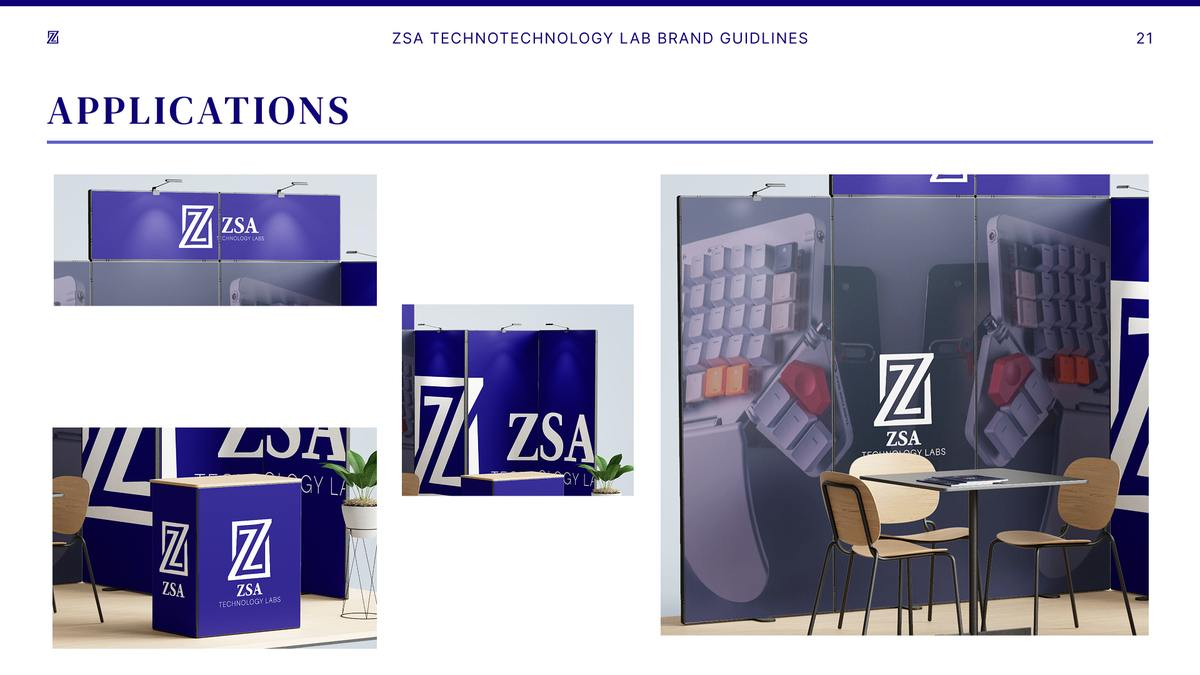
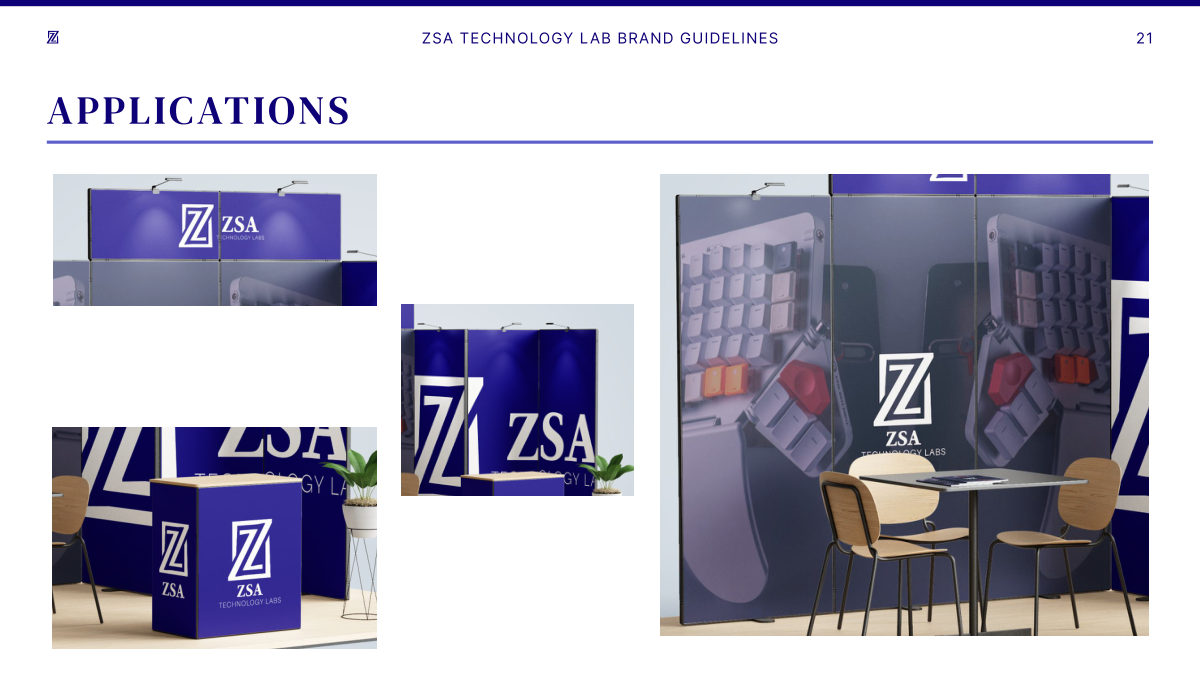
ZSA Moonlander: rationale, more guideline pages, applications, campaign pieces and sketches
Brand Direction adds the Logo Rationale page and the wordmark line from the RGD entry. Identity
System shows six guideline pages; Applications shows the booth and merchandise from the guidelines'
own images. Campaign shows the pieces from P2.3 (Built for Focus, two posters and a mockup, a social
post, the underside shot) in place of the Q1 four-up, plus the shooting settings. New Sketches
section from ART1113 assignments 2 and 4. zs-booth.jpg is redrawn from the PDF: the old export's
header read TECHNOTECHNOLOGY LAB BRAND GUIDLINES. zs-camp and zs-booth are no longer placed.

Claude-Session: https://claude.ai/code/session_01SoBVAK3i5HXZziztGmzpAC

diff --git a/work/zsa-moonlander.html b/work/zsa-moonlander.html
@@ -29,7 +29,7 @@
 
   <main id="main">
     <figure class="p-hero" data-hero style="--pos:50% 30%">
-      <img src="../img/zs-mag.jpg" alt="Open magazine with a ZSA Moonlander keyboard spread" width="922" height="683" fetchpriority="high" decoding="async">
+      <img src="../img/zs-mag.jpg" alt="Open magazine with a ZSA Moonlander keyboard spread" width="2880" height="2133" fetchpriority="high" decoding="async">
     </figure>
 
     <header class="p-head">
@@ -44,17 +44,19 @@
     </div>
 
     <div class="p-art p-sec">
-      <img src="../img/zs-bill.jpg" alt="ZSA Moonlander billboard in a subway station" width="927" height="690" loading="lazy" decoding="async">
+      <img src="../img/zs-bill.jpg" alt="ZSA Moonlander billboard in a subway station" width="2160" height="1608" loading="lazy" decoding="async">
     </div>
 
     <section class="p-sec" aria-labelledby="d1">
       <div class="p-art">
         <img src="../img/zs-dir.jpg" alt="The previous ZSA logo beside the new Z lettermark on navy" width="973" height="506" loading="lazy" decoding="async">
+        <img src="../img/zs-rationale.jpg" alt="Logo Rationale page: the Z mark and wordmark beside the founding story and notes on the logomark and the wordmark" width="2160" height="1215" loading="lazy" decoding="async">
       </div>
       <div class="p-cap">
         <h2 id="d1">Brand Direction</h2>
         <p>The brand direction focuses on clarity and modularity, reflecting the engineering mindset of programmable keyboard users.</p>
         <p>A simplified logomark replaces the previous skeuomorphic logo. Its double outline follows the two-layer keycaps and the split layout of the boards, and it stays clear at small sizes.</p>
+        <p>The wordmark is set in a serif, Corundum Text Bold, which reads as something built to last rather than a tech startup.</p>
       </div>
     </section>
 
@@ -66,27 +68,74 @@
         </div>
         <div class="row">
           <img src="../img/zs-type.jpg" alt="Guidelines page with DM Serif Display and Inter" width="1200" height="675" style="--ar:1.7778" loading="lazy" decoding="async">
-          <img src="../img/zs-booth.jpg" alt="Guidelines page with trade-show booth applications" width="1200" height="675" style="--ar:1.7778" loading="lazy" decoding="async">
+          <img src="../img/zs-backgrounds.jpg" alt="Guidelines page with the horizontal logo on white, navy, black and purple backgrounds" width="1200" height="675" style="--ar:1.7778" loading="lazy" decoding="async">
+        </div>
+        <div class="row">
+          <img src="../img/zs-social.jpg" alt="Guidelines page with the square and circle avatars and a navy banner" width="1200" height="675" style="--ar:1.7778" loading="lazy" decoding="async">
+          <img src="../img/zs-donts.jpg" alt="Guidelines page with six crossed-out misuses of the logo" width="1200" height="675" style="--ar:1.7778" loading="lazy" decoding="async">
         </div>
       </div>
       <div class="p-cap">
         <h2 id="d2">Identity System</h2>
-        <p>The guidelines set out lockups, a deep navy palette, DM Serif Display with Inter, and applications from print to a trade-show booth.</p>
+        <p>The guidelines set out the lockups and their minimum sizes, the logo on different backgrounds and as a social media avatar, and the misuses to avoid. Deep navy is the base colour, with mid purple as a small accent that never competes with it. DM Serif Display and Inter carry communication and stay separate from the logo type.</p>
       </div>
     </section>
 
     <section class="p-sec" aria-labelledby="d3">
       <div class="p-art">
-        <img src="../img/zs-camp.jpg" alt="Four campaign visuals: a subway billboard, a keycap close-up, a magazine spread and a product close-up" width="1200" height="862" loading="lazy" decoding="async">
+        <img src="../img/zs-app-booth.jpg" alt="Trade-show booth in navy and purple, with the Z mark on the walls and the counter" width="2160" height="1620" loading="lazy" decoding="async">
+        <div class="row">
+          <img src="../img/zs-app-hub.jpg" alt="Purple USB-C adapter with the Z mark, plugged into a laptop" width="1200" height="795" style="--ar:1.5094" loading="lazy" decoding="async">
+          <img src="../img/zs-app-usb.jpg" alt="USB stick with a purple body and the ZSA lockup on the metal swivel" width="640" height="999" style="--ar:0.6406" loading="lazy" decoding="async">
+          <img src="../img/zs-app-badges.jpg" alt="A pile of navy badges with the Z mark and wordmark" width="1100" height="825" style="--ar:1.3333" loading="lazy" decoding="async">
+        </div>
       </div>
       <div class="p-cap">
-        <h2 id="d3">Campaign</h2>
-        <p>Through bold compositions and close-up product visuals, the design emphasizes precision, customization, and the tactile experience of mechanical keyboards.</p>
-        <p>The visual system extends across multiple campaign touchpoints including billboards, editorials, and social media graphics, maintaining a consistent visual language built around precision and modular structure.</p>
+        <h2 id="d3">Applications</h2>
+        <p>The identity on a trade-show booth and on merchandise: a USB-C adapter, a USB stick and badges.</p>
       </div>
     </section>
 
     <section class="p-sec" aria-labelledby="d4">
+      <div class="p-art">
+        <img src="../img/zs-focus.jpg" alt="Close-up of orange keycaps on the Moonlander under the line Built for Focus" width="2160" height="1398" loading="lazy" decoding="async">
+        <div class="row">
+          <img src="../img/zs-poster-1.jpg" alt="Poster: one half of the Moonlander from above, Built for the way you work" width="1016" height="1546" style="--ar:0.6572" loading="lazy" decoding="async">
+          <img src="../img/zs-poster-2.jpg" alt="Poster: the keyboard’s key grid with orange and red keys, Precision in every key" width="1008" height="1550" style="--ar:0.6503" loading="lazy" decoding="async">
+          <img src="../img/zs-poster-mockup.jpg" alt="The Built for the way you work poster leaning against a wall beside books" width="1600" height="1200" style="--ar:1.3333" loading="lazy" decoding="async">
+        </div>
+        <div class="row">
+          <img src="../img/zs-post.jpg" alt="Social post with one half of the keyboard and the line Built for the way you work" width="1190" height="776" style="--ar:1.5335" loading="lazy" decoding="async">
+          <img src="../img/zs-underside.jpg" alt="Low view of the keyboard’s underside and a red keycap, with the word Moonlander" width="1200" height="777" style="--ar:1.5444" loading="lazy" decoding="async">
+        </div>
+      </div>
+      <div class="p-cap">
+        <h2 id="d4">Campaign</h2>
+        <p>Through bold compositions and close-up product visuals, the design emphasizes precision, customization, and the tactile experience of mechanical keyboards.</p>
+        <p>The visual system extends across multiple campaign touchpoints including billboards, editorials, and social media graphics, maintaining a consistent visual language built around precision and modular structure.</p>
+        <p>I shot the keyboard myself in the studio, every frame at f/11, 1/160&nbsp;s and ISO&nbsp;80.</p>
+      </div>
+    </section>
+
+    <section class="p-sec" aria-labelledby="d5">
+      <div class="p-art">
+        <div class="row">
+          <img src="../img/zs-sketch-2.jpg" alt="Sketchbook page with hexagon Z marks, a circuit-tree symbol and two animal sketches" width="588" height="885" style="--ar:0.6644" loading="lazy" decoding="async">
+          <img src="../img/zs-sketch-1.jpg" alt="Sketchbook page: the letters Z, S and A in boxes, a hard-edged Z and two angular animal sketches" width="1167" height="1208" style="--ar:0.9661" loading="lazy" decoding="async">
+        </div>
+        <img src="../img/zs-directions.jpg" alt="Three digital Z directions in black: a heavy block Z, a slanted Z in a parallelogram and a double-outline Z" width="2160" height="710" loading="lazy" decoding="async">
+        <div class="row">
+          <img src="../img/zs-type-tests.jpg" alt="Type tests: the Z lockup with three wordmark treatments and notes on each" width="1200" height="675" style="--ar:1.7778" loading="lazy" decoding="async">
+          <img src="../img/zs-colour-tests.jpg" alt="Colour tests: the Z lockup in muted blue, grey and teal, with notes" width="1200" height="675" style="--ar:1.7778" loading="lazy" decoding="async">
+        </div>
+      </div>
+      <div class="p-cap">
+        <h2 id="d5">Sketches</h2>
+        <p>The Z started as pencil sketches on grid paper. Three digital directions followed, then tests of the wordmark in sans and serif type and in muted blue, grey and teal.</p>
+      </div>
+    </section>
+
+    <section class="p-sec" aria-labelledby="d6">
       <div class="p-art">
         <div class="row">
           <img src="../img/zs-wip-1.jpg" alt="March draft of the clear space page, with construction boxes drawn over the Z mark" width="1200" height="675" style="--ar:1.7778" loading="lazy" decoding="async">
@@ -103,7 +152,7 @@
         </div>
       </div>
       <div class="p-cap">
-        <h2 id="d4">Process</h2>
+        <h2 id="d6">Process</h2>
         <p>The clear space page as drafted in March and as revised in September, when the rule was drawn out and stationery and letterhead specs were added. Below, unedited shots from the product shoot.</p>
       </div>
     </section>
